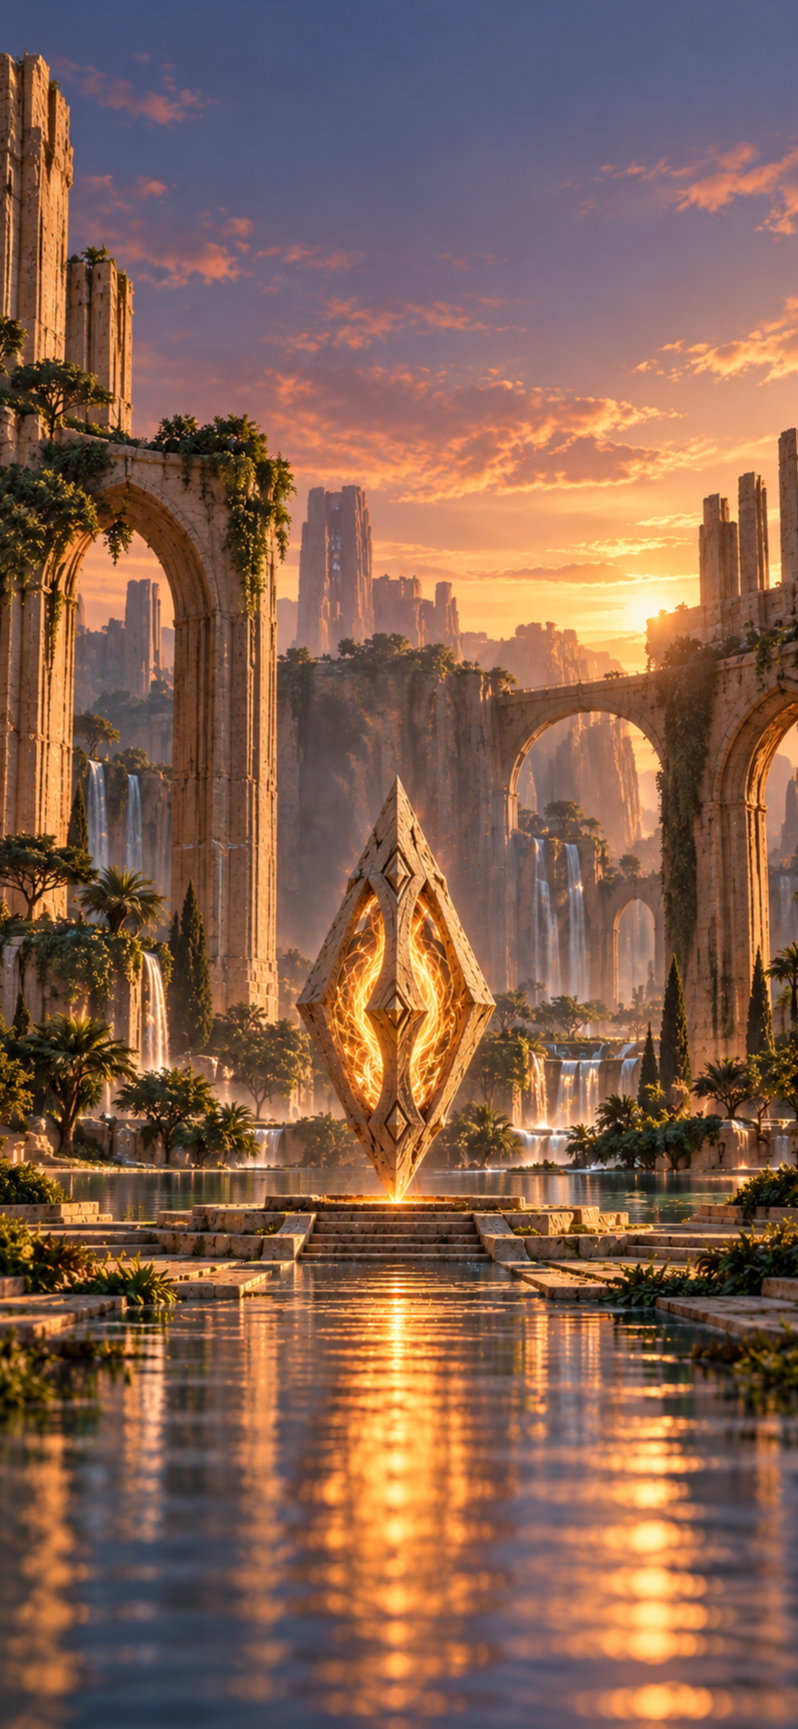
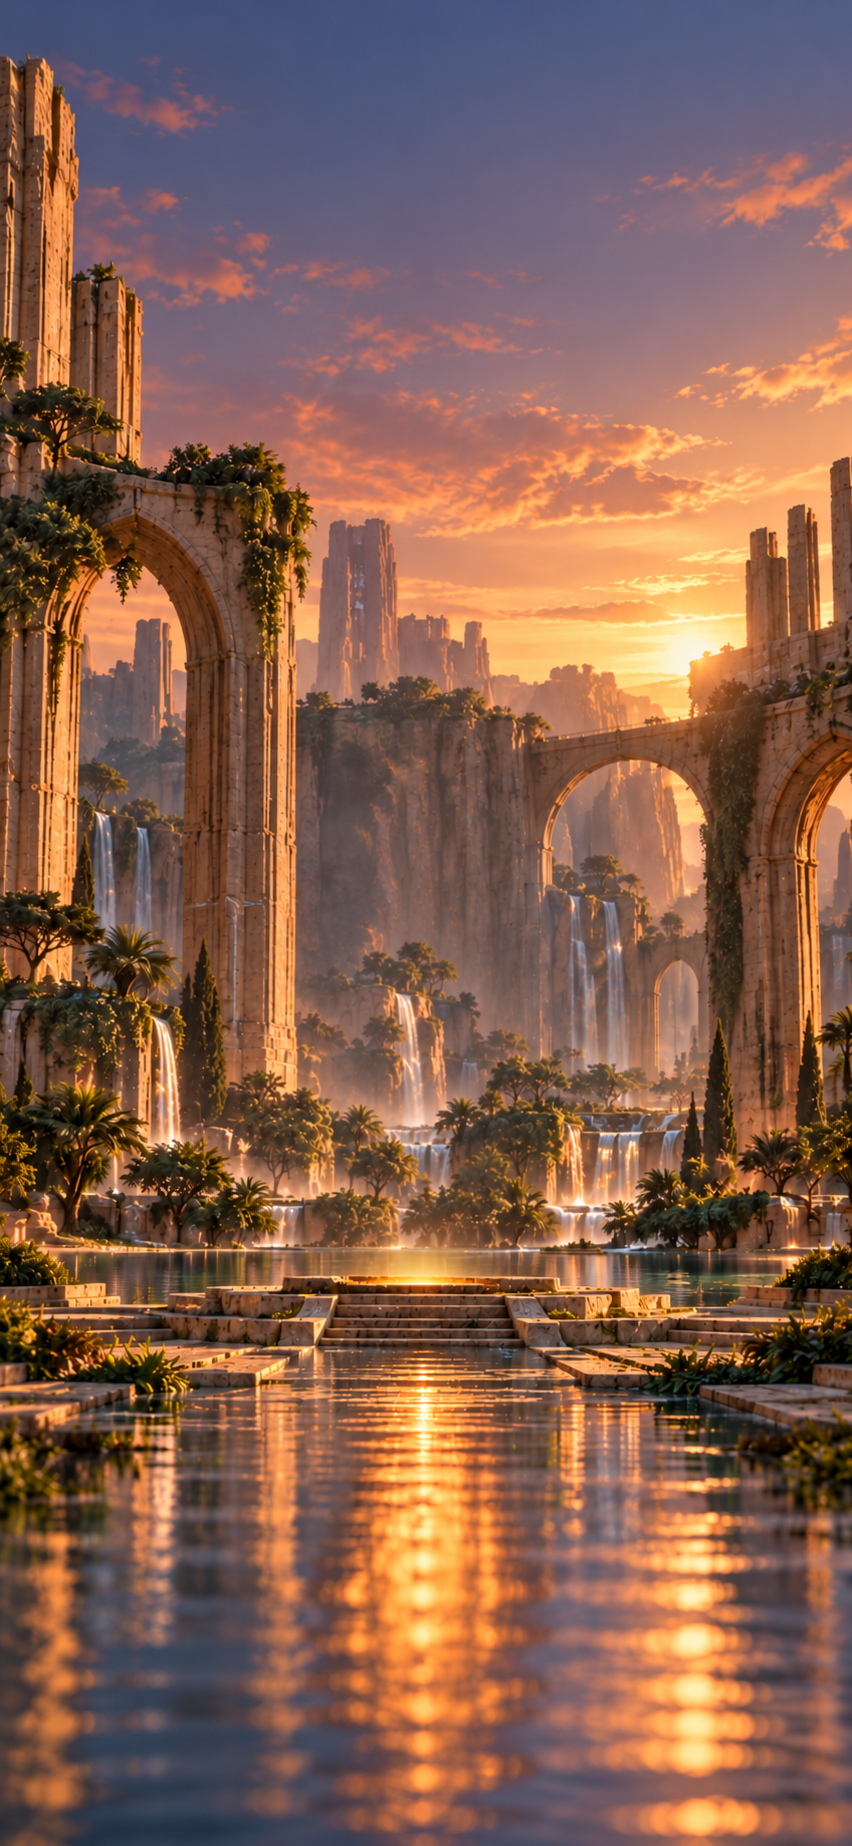
Prototype: empty-pedestal Sanctuary with embers crossfade; simulator screenshots of completion, embers, comeback

diff --git a/prototypes/feel-v0/FeelPrototype/ContentView.swift b/prototypes/feel-v0/FeelPrototype/ContentView.swift
@@ -84,19 +84,27 @@ struct Sanctuary: View {
     var body: some View {
         GeometryReader { geo in
             ZStack {
-                if let img = UIImage(named: "sanctuary") {
-                    Image(uiImage: img).resizable().scaledToFill()
-                        .frame(width: geo.size.width, height: geo.size.height).clipped()
-                } else {
-                    Color(red: 0.23, green: 0.18, blue: 0.29)
-                }
-                Color(red: 0.08, green: 0.1, blue: 0.22).opacity(0.55 * (1 - vitality))
+                layer("sanctuary", geo: geo)
+                layer("sanctuary-embers", geo: geo).opacity(max(0, min(1, (0.9 - vitality) / 0.6)))
+                Color(red: 0.08, green: 0.1, blue: 0.22).opacity(0.25 * (1 - vitality))
                 LinearGradient(colors: [.black.opacity(0.35), .clear, .black.opacity(0.55)],
                                startPoint: .top, endPoint: .bottom)
             }
             .animation(.easeInOut(duration: 1.2), value: vitality)
         }
         .ignoresSafeArea()
+    }
+
+    /// Scaled up and anchored at the bottom so the empty pedestal sits just above the day cards.
+    @ViewBuilder private func layer(_ name: String, geo: GeometryProxy) -> some View {
+        if let img = UIImage(named: name) {
+            Image(uiImage: img).resizable().scaledToFill()
+                .frame(width: geo.size.width, height: geo.size.height)
+                .scaleEffect(1.3, anchor: .bottom)
+                .clipped()
+        } else {
+            Color(red: 0.23, green: 0.18, blue: 0.29)
+        }
     }
 }
 

diff --git a/prototypes/feel-v0/FeelPrototype/FlameView.swift b/prototypes/feel-v0/FeelPrototype/FlameView.swift
@@ -19,7 +19,7 @@ struct FlameView: View {
     private func vessel(in size: CGSize) -> (rect: CGRect, outer: Path, cavity: Path) {
         let h = size.height * 0.26
         let w = h * 0.56
-        let c = CGPoint(x: size.width / 2, y: size.height * 0.44)
+        let c = CGPoint(x: size.width / 2, y: size.height * 0.46)
         let r = CGRect(x: c.x - w / 2, y: c.y - h / 2, width: w, height: h)
         func diamond(_ inset: CGFloat) -> Path {
             var p = Path()

diff --git a/prototypes/feel-v0/FeelPrototype/FeelState.swift b/prototypes/feel-v0/FeelPrototype/FeelState.swift
@@ -70,6 +70,7 @@ final class FeelState {
 
     init() {
         // Debug-only: `-autodemo` completes the first card after 1 s (for simulator screenshots).
+        if ProcessInfo.processInfo.arguments.contains("-away") { simulateAway() }
         if ProcessInfo.processInfo.arguments.contains("-autodemo") {
             Task { @MainActor in
                 try? await Task.sleep(for: .seconds(1))
